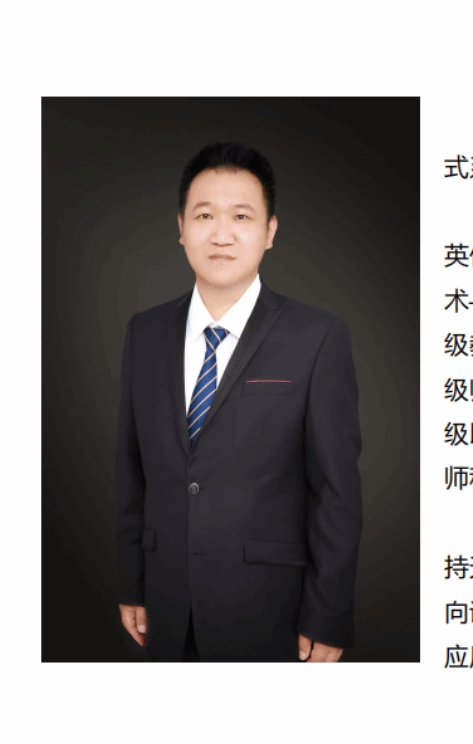
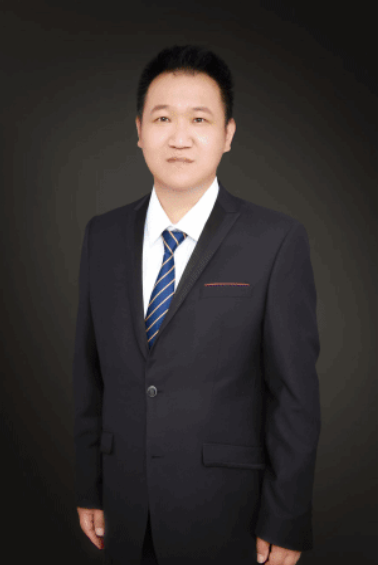
3D卡片和全屏页用新证件照，详情页保持原裁剪头像

diff --git a/pages/mentor-detail.html b/pages/mentor-detail.html
@@ -823,7 +823,7 @@
         email: "#",
         office: "#",
         blog: "#",
-        photo: "../images/teachers/teacher2.png",
+        photo: "../images/teachers/teacher2-detail.png",
         tags: ["人工智能教育", "智能硬件", "全栈开发", "机器学习", "AI工程化"],
         intro: [
           "刘海斌，副教授、人工智能教育专家、全栈开发工程师、机器学习研究员。中国民航大学通信与信息系统专业硕士，拥有15年高校教学经验，40+项学生竞赛奖项，18个开源教学作品，是AI通识与智能硬件双栖专家。",
